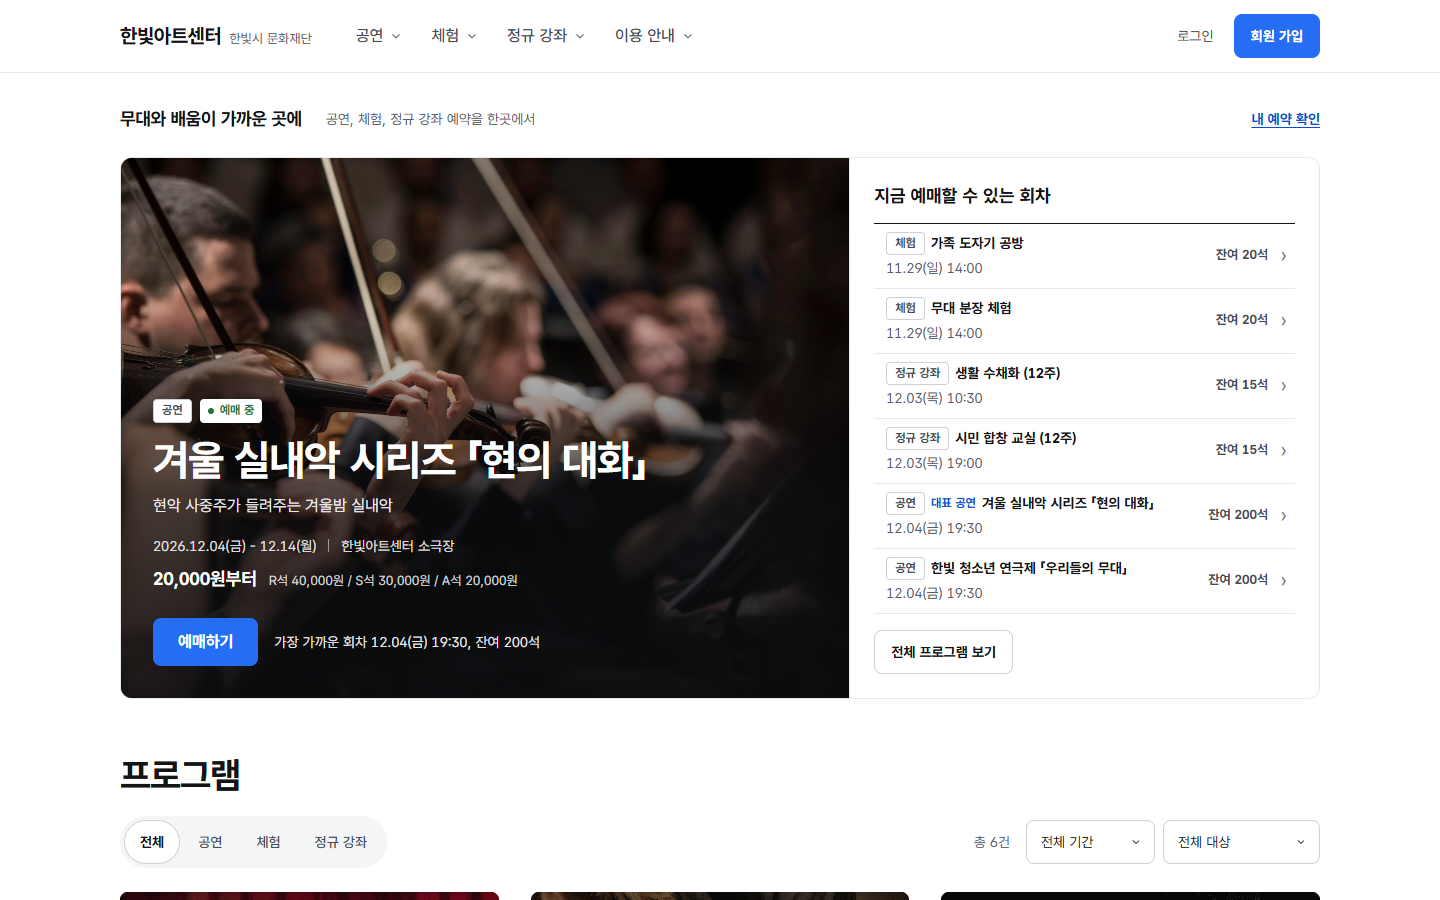
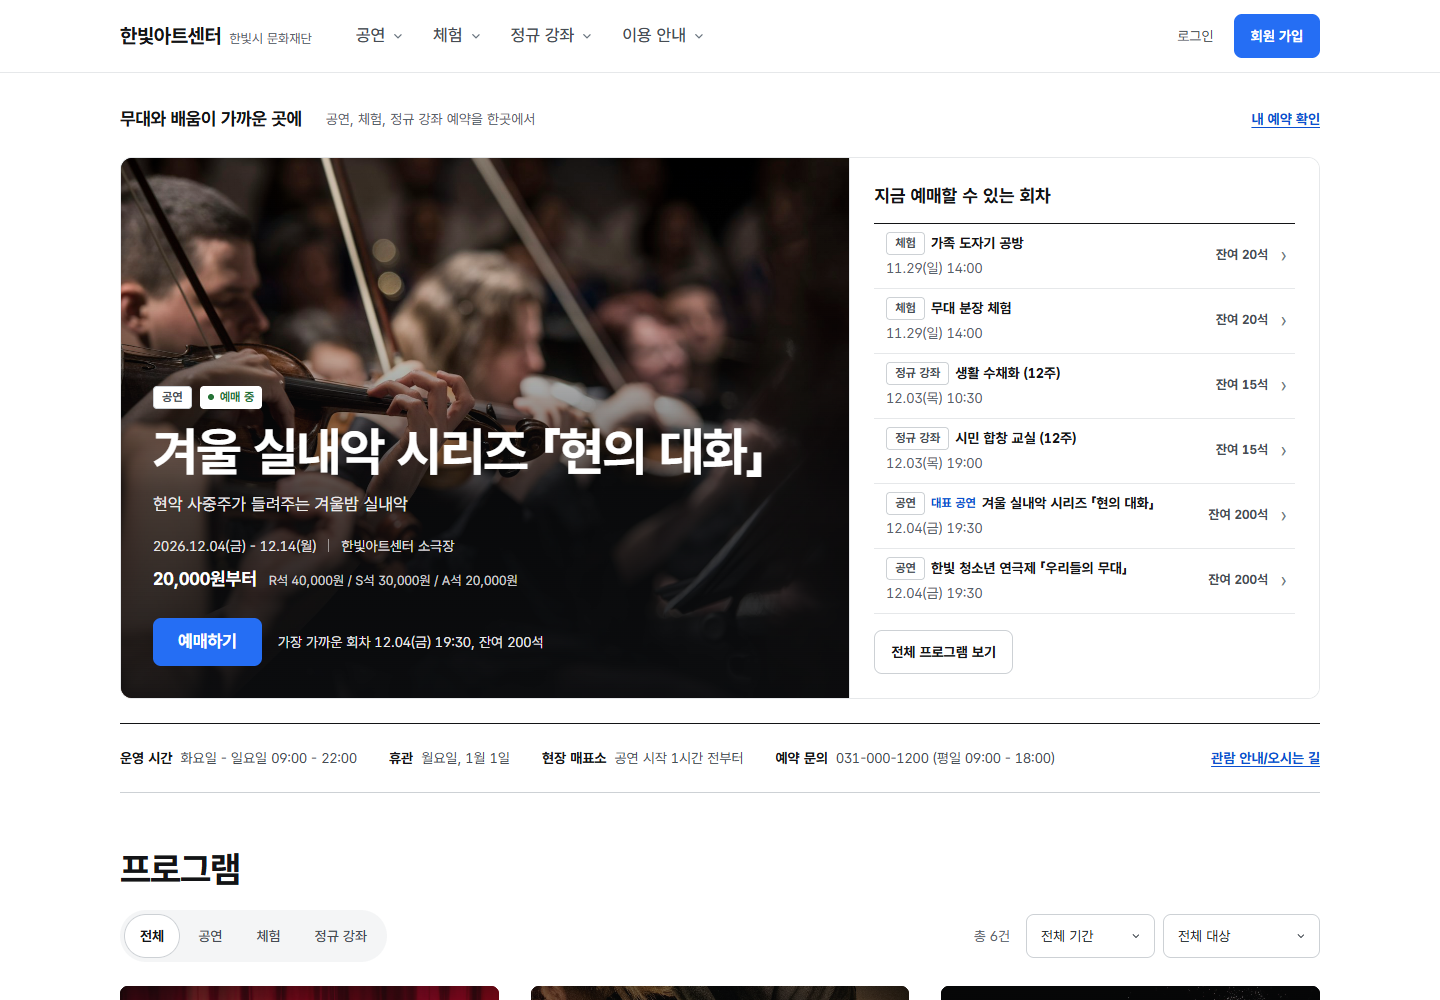
style: DESIGN.md 기준 정리 - 본문 17px, 운영 정보 띠, 수치 카드를 목록으로
- 본문 17px(KRDS), 홈 대표 제목 display 52px로 제목/본문 3배 비
- 홈 첫 화면 아래 운영 정보 띠(운영 시간, 휴관, 매표소, 문의)
- 관리자 대시보드와 정산 현황의 수치 카드 4개 나열을 한 장의 장부형 목록으로
- DESIGN.md 남은 위반 없음으로 갱신

diff --git a/src/styles/admin.css b/src/styles/admin.css
@@ -158,18 +158,20 @@ textarea.ctl { height: auto; min-height: 120px; padding: var(--sp-3); line-heigh
 .load-error .btn { margin-top: var(--sp-3); }
 
 /* 대시보드 */
-.kpis { display: grid; grid-template-columns: repeat(4, minmax(0, 1fr)); gap: var(--sp-3); }
-.kpi { background: #fff; border: 1px solid var(--c-line); border-radius: var(--r-md); padding: var(--sp-4) var(--sp-4); }
-.kpi .k-label { display: flex; justify-content: space-between; gap: var(--sp-2); font-size: var(--fs-xsmall); color: var(--c-text-2); font-weight: 500; }
+/* 주요 수치: 카드 4개를 나란히 두지 않고 한 장의 목록(이름 왼쪽, 값 오른쪽)으로 둡니다(DESIGN.md 금지 목록). */
+.kpis { background: #fff; border: 1px solid var(--c-line); border-radius: var(--r-md); }
+.kpi { display: grid; grid-template-columns: 13em 8em minmax(0, 1fr) auto; column-gap: var(--sp-5); align-items: center; min-height: 52px; padding: var(--sp-1) var(--sp-4); }
+.kpi + .kpi { border-top: 1px solid var(--c-line-soft); }
+.kpi .k-label { grid-column: 1; grid-row: 1; display: flex; align-items: baseline; gap: var(--sp-2); font-size: var(--fs-small); color: var(--c-ink); font-weight: 700; }
 .kpi .k-label small { color: var(--c-text-muted); font-weight: 400; font-variant-numeric: tabular-nums; }
-.kpi.net { background: var(--c-ink); border-color: var(--c-ink); }
-.kpi.net .k-label, .kpi.net .k-note, .kpi.net .k-label small { color: var(--c-line); }
-.kpi.net .k-value { color: #fff; }
-.kpi .k-value { margin-top: var(--sp-2); font-size: var(--fs-h2); font-weight: 700; letter-spacing: -0.02em; color: var(--c-ink); font-variant-numeric: tabular-nums; }
+.kpi .k-value { grid-column: 2; grid-row: 1; margin: 0; text-align: right; font-size: var(--fs-h3); font-weight: 700; letter-spacing: -0.02em; color: var(--c-ink); font-variant-numeric: tabular-nums; }
 .kpi .k-value span { font-size: var(--fs-small); font-weight: 500; margin-left: 2px; }
-.kpi .k-note { margin-top: var(--sp-1); font-size: var(--fs-caption); color: var(--c-text-muted); }
+.kpi .k-note { grid-column: 3; grid-row: 1; font-size: var(--fs-xsmall); color: var(--c-text-muted); }
+.kpi a.k-link { grid-column: 4; grid-row: 1; display: inline-flex; align-items: center; min-height: 44px; font-size: var(--fs-xsmall); color: var(--c-action-text); text-decoration: underline; text-underline-offset: 2px; }
 .kpi a.k-link:hover { color: var(--c-action-hover); }
-.kpi a.k-link { display: inline-flex; align-items: center; min-height: 44px; margin-bottom: -10px; font-size: var(--fs-caption); color: var(--c-action-text); text-decoration: underline; text-underline-offset: 2px; }
+/* 합계 줄: 장부처럼 위에 굵은 선 하나 */
+.kpi.net { border-top: 2px solid var(--c-ink); }
+.kpi.net .k-value { font-size: var(--fs-h2); }
 
 /* 조회 조건: 빠른 기간, 표 선택, 증빙 상태 (admin-bookings 시안) */
 .range-btns { display: inline-flex; margin-left: var(--sp-2); }
@@ -333,7 +335,6 @@ textarea.ctl { height: auto; min-height: 120px; padding: var(--sp-3); line-heigh
 
 @media (max-width: 1180px) {
   .search-grid { grid-template-columns: 100px minmax(0, 1fr) 100px minmax(0, 1fr); }
-  .kpis { grid-template-columns: repeat(2, minmax(0, 1fr)); }
   .two-col { grid-template-columns: 1fr; }
 }
 @media (max-width: 900px) {
@@ -358,9 +359,10 @@ textarea.ctl { height: auto; min-height: 120px; padding: var(--sp-3); line-heigh
   .filter-bar .sep { display: none; }
 }
 @media (max-width: 560px) {
-  .kpis, .skeleton .sk-kpis { grid-template-columns: 1fr 1fr; gap: var(--sp-2); }
-  .kpi { padding: var(--sp-3); }
-  .kpi .k-value { font-size: var(--fs-h3); }
+  .kpi { grid-template-columns: minmax(0, 1fr) auto; padding: var(--sp-2) var(--sp-3); }
+  .kpi .k-value { grid-column: 2; grid-row: 1 / span 3; }
+  .kpi .k-note, .kpi a.k-link { grid-column: 1; grid-row: auto; }
+  .kpi a.k-link { justify-self: start; margin: -8px 0; }
   .topbar .brand span, .topbar .session .lbl, .topbar .who { display: none; }
   .topbar { gap: var(--sp-2); padding: 0 var(--sp-3); }
   .topbar .t-right { gap: var(--sp-2); }

diff --git a/src/styles/user.css b/src/styles/user.css
@@ -151,7 +151,7 @@ button, input, select { font: inherit; color: inherit; }
 .hero-feature .f-info { position: relative; padding: var(--sp-6) var(--sp-6) var(--sp-6); max-width: 40em; }
 .hero-feature .f-marks { display: flex; gap: var(--sp-2); align-items: center; margin-bottom: var(--sp-3); }
 .hero-feature .f-marks .status { background: #fff; padding: 2px var(--sp-2); border-radius: var(--r-sm); font-size: var(--fs-caption); font-weight: 700; }
-.hero-feature h2 { margin: 0; font-size: clamp(1.75rem, 1.2rem + 1.6vw, 2.625rem); line-height: 1.2; letter-spacing: -0.03em; }
+.hero-feature h2 { margin: 0; font-size: var(--fs-display); line-height: 1.2; letter-spacing: -0.03em; }
 .hero-feature h2 a { color: #fff; display: -webkit-box; -webkit-line-clamp: 2; -webkit-box-orient: vertical; overflow: hidden; min-height: 44px; }
 .hero-feature .f-summary { margin: var(--sp-2) 0 0; font-size: var(--fs-body); color: rgba(255, 255, 255, 0.9); }
 .hero-feature .f-meta { display: flex; flex-wrap: wrap; gap: 4px 0; margin: var(--sp-4) 0 0; font-size: var(--fs-small); color: rgba(255, 255, 255, 0.86); }
@@ -188,6 +188,14 @@ button, input, select { font: inherit; color: inherit; }
 .section-head p { margin: 4px 0 0; color: var(--c-text-3); font-size: var(--fs-small); }
 /* 메인 목록: 제목과 필터를 한 덩어리로 붙입니다. */
 .hero + .section .section-head { margin-bottom: var(--sp-3); }
+/* 운영 정보 띠: 첫 화면 바로 아래 한 줄. 위아래 1px 선만 두고 배경과 상자는 쓰지 않습니다(DESIGN.md 공통 원칙 8). */
+.visit-strip { display: flex; align-items: center; gap: var(--sp-2) var(--sp-6); flex-wrap: wrap; margin-top: var(--sp-5); padding: var(--sp-3) 0; border-top: 1px solid var(--c-ink); border-bottom: 1px solid var(--c-line); }
+.visit-strip dl { display: flex; flex-wrap: wrap; gap: var(--sp-1) var(--sp-6); margin: 0; flex: 1 1 auto; min-width: 0; }
+.visit-strip dl div { display: flex; gap: var(--sp-2); font-size: var(--fs-small); }
+.visit-strip dt { font-weight: 700; color: var(--c-ink); }
+.visit-strip dd { margin: 0; color: var(--c-text-2); font-variant-numeric: tabular-nums; }
+.visit-more { display: inline-flex; align-items: center; min-height: 44px; font-size: var(--fs-small); font-weight: 700; color: var(--c-action-text); text-decoration: underline; text-underline-offset: 3px; }
+.visit-more:hover { color: var(--c-ink); }
 
 .filters { display: flex; flex-wrap: wrap; gap: var(--sp-3); align-items: center; justify-content: space-between; margin-bottom: var(--sp-5); }
 .seg { display: inline-flex; padding: var(--sp-1); background: var(--c-surface-2); border-radius: var(--r-pill); gap: 2px; }

diff --git a/src/styles/motion.css b/src/styles/motion.css
@@ -72,17 +72,14 @@ select:not(:disabled), input[type="radio"]:not(:disabled), input[type="checkbox"
 .skeleton .sk-grid .sk-th { height: 40px; margin: 0 calc(var(--sp-4) * -1) var(--sp-1); border-radius: 0; animation: none; background: var(--c-surface-2); }
 .skeleton .sk-grid .sk-tr { display: grid; grid-template-columns: 40px 2fr 1fr 1fr 1fr 80px; gap: var(--sp-4); padding: 14px 0; border-bottom: 1px solid var(--c-line-soft); }
 .skeleton .sk-grid .sk-tr i { display: block; height: 14px; }
-.skeleton .sk-kpis { display: grid; grid-template-columns: repeat(4, minmax(0, 1fr)); gap: var(--sp-3); }
-.skeleton .sk-kpis div { height: 104px; border-radius: var(--r-md); }
+.skeleton .sk-kpis { display: grid; gap: var(--sp-1); }
+.skeleton .sk-kpis div { height: 52px; border-radius: var(--r-sm); }
 .skeleton .sk-chart { display: flex; align-items: flex-end; gap: var(--sp-3); height: 200px; padding: var(--sp-5) var(--sp-4) var(--sp-3); }
 .skeleton .sk-chart i { display: block; flex: 1; border-radius: var(--r-sm) var(--r-sm) 0 0; }
 
 @media (max-width: 860px) {
   .skeleton .sk-cards { grid-template-columns: repeat(2, minmax(0, 1fr)); gap: var(--sp-5) var(--sp-3); }
   .skeleton .sk-detail { grid-template-columns: 240px minmax(0, 1fr); gap: var(--sp-5); }
-}
-@media (max-width: 1180px) {
-  .skeleton .sk-kpis { grid-template-columns: repeat(2, minmax(0, 1fr)); }
 }
 @media (max-width: 560px) {
   .skeleton .sk-detail { grid-template-columns: 1fr; }

diff --git a/src/user/pages/programs.js b/src/user/pages/programs.js
@@ -204,6 +204,16 @@ export async function renderPrograms(el, { api, query = new URLSearchParams(), n
         <article class="hero-feature" data-feature></article>
         <aside class="board-panel" aria-labelledby="board-title" data-board></aside>
       </div>
+      <div class="visit-strip">
+        <h2 class="sr-only">운영 정보</h2>
+        <dl>
+          <div><dt>운영 시간</dt><dd>화요일 - 일요일 09:00 - 22:00</dd></div>
+          <div><dt>휴관</dt><dd>월요일, 1월 1일</dd></div>
+          <div><dt>현장 매표소</dt><dd>공연 시작 1시간 전부터</dd></div>
+          <div><dt>예약 문의</dt><dd>031-000-1200 (평일 09:00 - 18:00)</dd></div>
+        </dl>
+        <a class="visit-more" href="#/guide/visit">관람 안내/오시는 길</a>
+      </div>
     </div>
   </section>
   <section class="section" aria-labelledby="list-title">

diff --git a/src/styles/tokens.css b/src/styles/tokens.css
@@ -45,7 +45,7 @@
   --fs-h1: clamp(1.625rem, 1.3rem + 1.1vw, 2.25rem);
   --fs-h2: clamp(1.25rem, 1.1rem + 0.6vw, 1.5rem);
   --fs-h3: 1.125rem;
-  --fs-body: 1rem;
+  --fs-body: 1.0625rem;  /* 17px, KRDS 본문. 제목(display 52px)과 3배 비 */
   --fs-small: 0.875rem;
   --fs-xsmall: 0.8125rem;
   --fs-caption: 0.75rem;   /* 표 머리 보조, 그래프 축, 작은 표식 */

diff --git a/DESIGN.md b/DESIGN.md
@@ -70,11 +70,12 @@
 
 - 대표 사진 칸은 가장자리까지 꽉 채우고, 위에 얹는 글자는 제목, 일시와 장소, 행동 하나로 3층 이하.
 - 첫 화면 다음은 날짜 기준 일정(현황판, 「이번 주」)이 옵니다.
-- 제목 크기 대 본문 크기는 3배 이상. 본문은 17px(KRDS)로 올리는 것을 다음 정리 때 반영합니다.
+- 제목 크기 대 본문 크기는 3배 이상. 본문 17px(KRDS, `--fs-body`), 홈 대표 제목은 `--fs-display`(최대 52px)입니다.
 - 색: 무채색 + 행동색 #256ef4 한 가지. 기관색을 더한다면 한 가지만 넓은 면(머리 띠나 틀)에 단색으로 쓰고, 정하기 전에는 쓰지 않습니다.
 - 구획은 1px 선과 여백. 그림자는 떠 있는 층(GNB 펼침, 대화상자)에만.
 - 버튼은 모서리 4px 이하 단색. 글자 링크는 밑줄.
-- 운영 정보 띠(관람 시간, 휴관일, 문의 전화)를 홈에 둡니다(다음 정리 때 반영).
+- 운영 정보 띠(운영 시간, 휴관, 현장 매표소, 예약 문의)를 홈 첫 화면 바로 아래에 둡니다. 위 검정 1px, 아래 회색 1px 선만 쓰고 배경 상자는 두지 않습니다.
+- 주요 수치는 카드로 나란히 두지 않고 한 장의 목록(이름, 값, 설명, 이동 링크가 한 줄)으로 둡니다. 합계 줄은 위에 굵은 선 하나로 구분합니다(관리자 대시보드, 정산 현황).
 
 ## 금지 목록 (AI 생성 화면의 전형)
 
@@ -90,5 +91,5 @@
 - 대문자와 넓은 자간의 작은 장식 라벨(eyebrow)
 - 가운뎃점(·)과 긴 줄표(—) 표기
 
-현재 남은 위반: 관리자 대시보드의 주요 수치 카드 4개 가로 나열(`src/admin/pages/dashboard.js`). 다음 정리 때 표 한 줄 또는 2단 목록으로 바꿉니다.
+현재 남은 위반: 없음(2026-11-24 정리. 관리자 대시보드와 정산 현황의 수치 카드 4개 나열을 한 장의 목록으로 바꿈).
 
